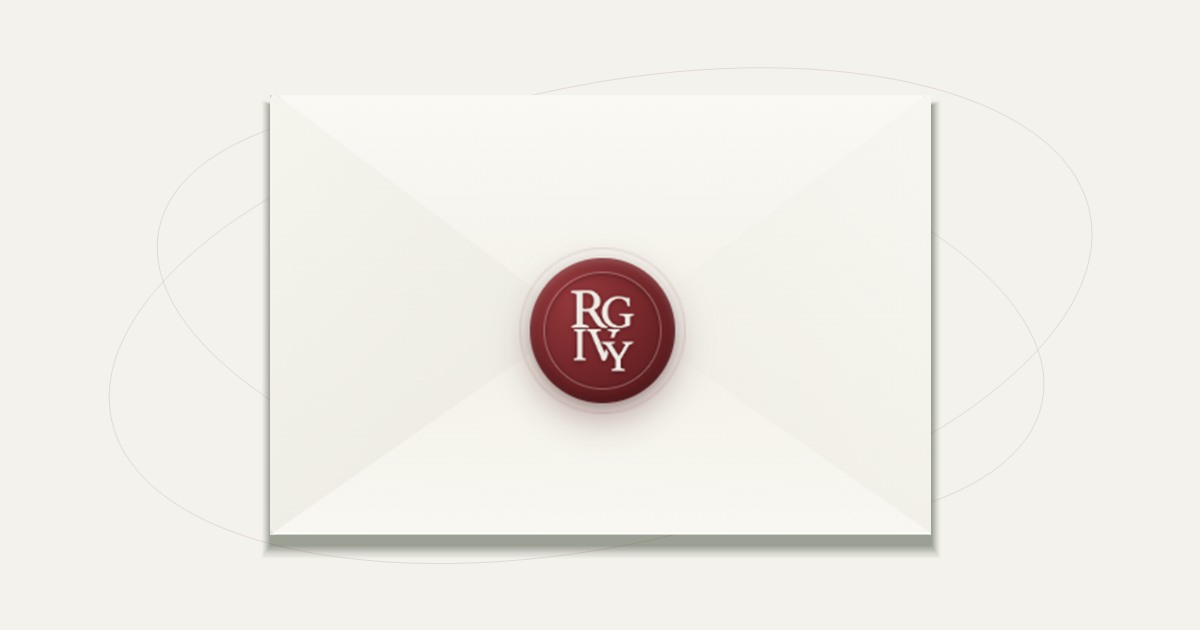
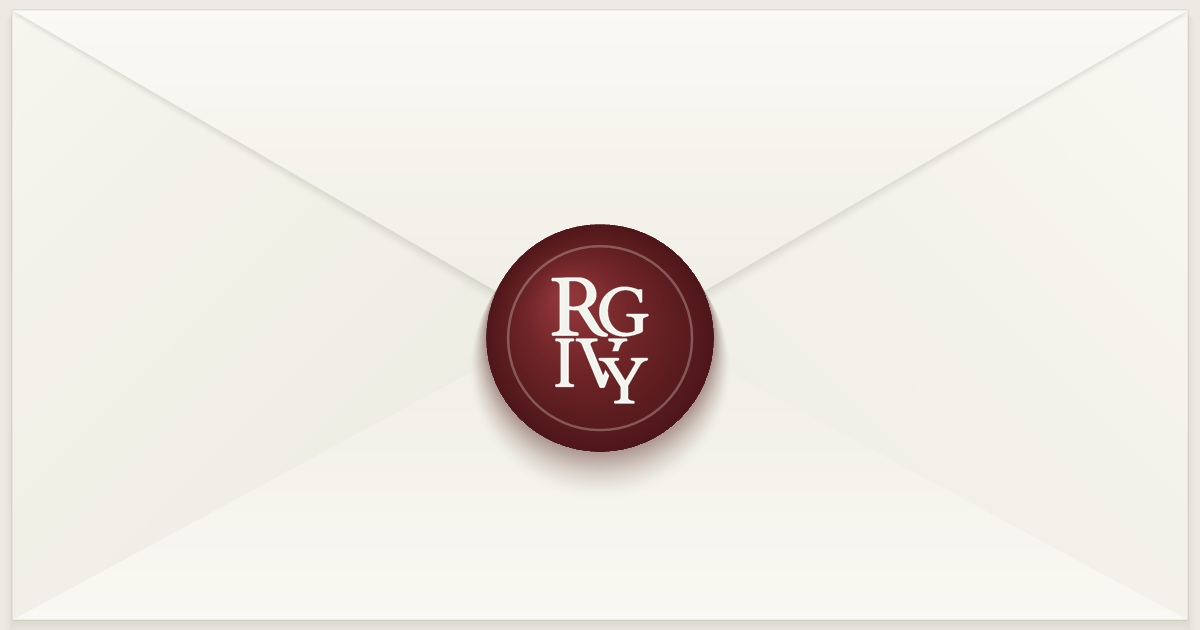
Full-bleed HD OG wax-seal thumbnail and longer 8.5s smooth music fade-in

Changed region(s): [[0.37, 0.3317, 0.6167, 0.7841], [0.2158, 0.1508, 0.8017, 0.9048], [0.0, 0.9651, 1.0, 0.9952]]

diff --git a/public/save-the-date/index.html b/public/save-the-date/index.html
@@ -11,8 +11,8 @@
   <meta property="og:url" content="https://ivy-and-riggo.pages.dev/save-the-date/" />
   <meta property="og:title" content="Tap the seal to open" />
   <meta property="og:description" content="You have received a special envelope 🤍" />
-  <meta property="og:image" content="https://ivy-and-riggo.pages.dev/assets/og-save-the-date.jpg" />
-  <meta property="og:image:secure_url" content="https://ivy-and-riggo.pages.dev/assets/og-save-the-date.jpg" />
+  <meta property="og:image" content="https://ivy-and-riggo.pages.dev/assets/og-save-the-date.jpg?v=2" />
+  <meta property="og:image:secure_url" content="https://ivy-and-riggo.pages.dev/assets/og-save-the-date.jpg?v=2" />
   <meta property="og:image:type" content="image/jpeg" />
   <meta property="og:image:width" content="1200" />
   <meta property="og:image:height" content="630" />
@@ -22,7 +22,7 @@
   <meta name="twitter:card" content="summary_large_image" />
   <meta name="twitter:title" content="Tap the seal to open" />
   <meta name="twitter:description" content="You have received a special envelope 🤍" />
-  <meta name="twitter:image" content="https://ivy-and-riggo.pages.dev/assets/og-save-the-date.jpg" />
+  <meta name="twitter:image" content="https://ivy-and-riggo.pages.dev/assets/og-save-the-date.jpg?v=2" />
 
   <link rel="preconnect" href="https://fonts.googleapis.com" />
   <link rel="preconnect" href="https://fonts.gstatic.com" crossorigin />
@@ -230,6 +230,6 @@
     </div>
   </div>
 
-  <script src="/js/save-the-date.js?v=8"></script>
+  <script src="/js/save-the-date.js?v=9"></script>
 </body>
 </html>

diff --git a/public/js/save-the-date.js b/public/js/save-the-date.js
@@ -31,8 +31,8 @@ document.addEventListener('DOMContentLoaded', () => {
   // Gentle mid-low target volume (32%) so music never blasts on open
   let userVolume = 0.32;
   let lastNonZeroVolume = 0.32;
-  const FADE_IN_DURATION_MS = 4200;
-  const FADE_OUT_DURATION_MS = 650;
+  const FADE_IN_DURATION_MS = 8500;
+  const FADE_OUT_DURATION_MS = 800;
 
   // Ensure initial audio element volume is strictly 0 before playback starts
   if (bgMusic) {
@@ -71,10 +71,11 @@ document.addEventListener('DOMContentLoaded', () => {
     function step(now) {
       const elapsed = now - startTime;
       const progress = Math.min(1, elapsed / durationMs);
-      // Cubic ease-in-out so the start stays very soft and swells smoothly to mid volume
-      const eased = progress < 0.5
-        ? 4 * progress * progress * progress
-        : 1 - Math.pow(-2 * progress + 2, 3) / 2;
+      // Perceptually smooth fade-in (power curve stays whisper-quiet early so the swell is unmistakably audible)
+      const isFadingIn = toVol > fromVol;
+      const eased = isFadingIn
+        ? Math.pow(progress, 2.4)
+        : 1 - Math.pow(1 - progress, 2);
 
       const currentVol = Math.max(0, Math.min(1, fromVol + (toVol - fromVol) * eased));
       bgMusic.volume = currentVol;
